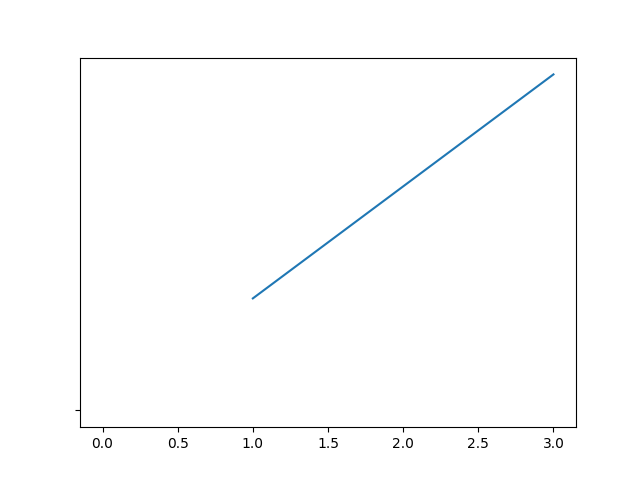
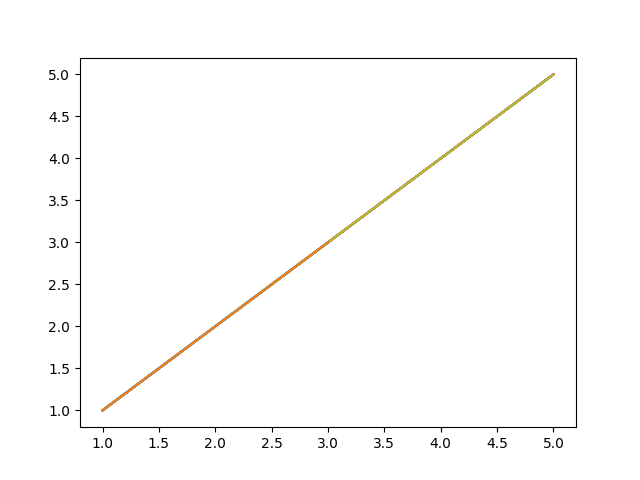
update

diff --git a/main.py b/main.py
@@ -31,31 +31,40 @@ class Imglayout(FloatLayout):
 class MainTApp(App):
 
     im = Image(source='images/graph.png')
-
     def build(self):
-        root = GridLayout()
-        root.cols=4
+        self.root = GridLayout()
+        self.root.cols=4
         c = Imglayout()
-        x = TextInput()
-        y = TextInput()
+        global x
+        self.x = TextInput()
+        global y
+        self.y = TextInput()
         submit = Button(text="Submit.")
-        submit.bind(on_press=self.graph(x.text.text, y.text.text))
-        root.add_widget(c)
+        submit.bind(on_press=self.callback)
+        self.root.add_widget(c)
         self.im.keep_ratio = False
         self.im.allow_stretch = True
         c.add_widget(self.im)
-        root.add_widget(x)
-        root.add_widget(y)
-        root.add_widget(submit)
-        return root
-
+        self.root.add_widget(self.x)
+        self.root.add_widget(self.y)
+        self.root.add_widget(submit)
+        return self.root
+    # def duo(self,x,y):
+    #     self.graph(x,y)
+    #     return self.callback(2)
     def callback(self, value):
-        self.im = Image(source='images/graph.png')
-    def graph(self,x,y):
-        plt.plot(x, y)
+        # nonlocal x
+        x1 = self.x.text.split(",")
+        # nonlocal y
+        y1 = self.x.text.split(",")
+        x = [float(i) for i in x1]
+        y = [float(i) for i in y1]
+        plt.plot(x,y)
         plt.savefig("graph.png")
         os.system("mv graph.png images")
-
+        self.im.source = 'images/graph.png'
+        self.root.remove_widget(self.im)
+        self.im.reload()
 
 if __name__ == '__main__':
     MainTApp().run()
